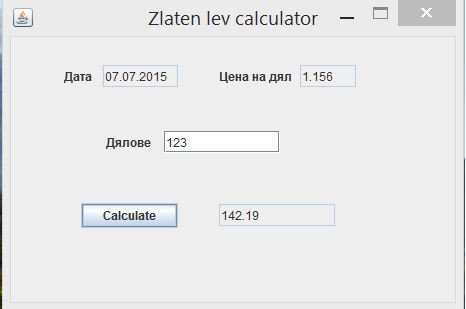
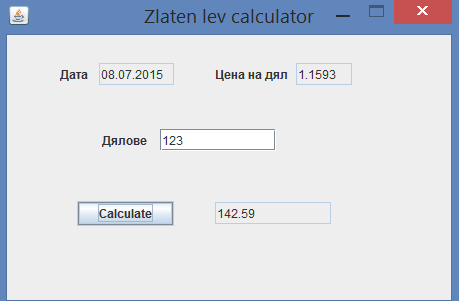
fixed price array

diff --git a/src/Connector.java b/src/Connector.java
@@ -7,7 +7,7 @@ import java.io.IOException;
 
 public class Connector {
 
-	char[] str = new char[5];
+	char[] str = new char[6];
     char[] date = new char[10];
     double value;
     
@@ -22,7 +22,7 @@ public class Connector {
 		i = i + 1;
     	if(i == 1) price.text().getChars(24,34,date,0);
     	if(i == 5) {
-    		price.text().getChars(0, 5, str, 0);
+    		price.text().getChars(0, 6, str, 0);
     		value = Double.parseDouble(String.valueOf(str));
 
 	        	}
